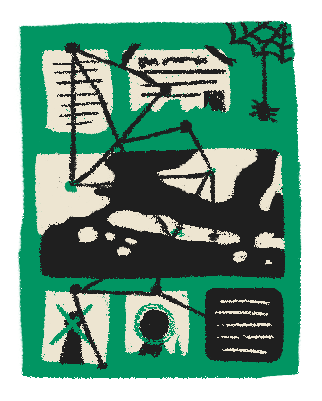
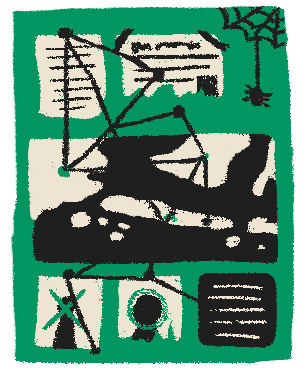
anger+fear kelar

diff --git a/pages/ruangan/fear.vue b/pages/ruangan/fear.vue
@@ -76,6 +76,15 @@
           <div class="cont lampu">
             <img src="/fear/lampu 1.png" alt="lampu">
           </div>
+          <div class="cont photoseries">
+            <img src="/fear/f-photoseries-1.png" alt="photoseries" @mouseenter="handleObjChange($event)" @mouseout="handleObjChangeEnd($event)">
+          </div>
+          <div class="cont kamera">
+            <img src="/fear/f-single-1.png" alt="kamera" @mouseenter="handleObjChange($event)" @mouseout="handleObjChangeEnd($event)">
+          </div>
+          <div class="cont radio">
+            <img src="/fear/f-radio-1.png" alt="radio" @mouseenter="handleObjChange($event)" @mouseout="handleObjChangeEnd($event)">
+          </div>
         </div>
       </div>
     </div>
@@ -153,6 +162,19 @@
           <div class="cont pipa-l">
             <img src="/fear/pipaHAPE 1.png" alt="pipa">
           </div>
+          <div class="cont artikel">
+            <img src="/fear/f-artikel-1.png" alt="artikel" @mouseenter="handleObjChange($event)" @mouseout="handleObjChangeEnd($event)">
+          </div>
+          <div class="cont photobook">
+            <img src="/fear/f-photobook-1.png" alt="photobook">
+          </div>
+          <div class="cont photobook1">
+            <img src="/fear/f-photobook-2.png" alt="photobook1" :style="`opacity: ${benda.ouija}`" @mouseenter="benda.ouija = 1" @mouseout="benda.ouija = 0">
+          </div>
+     
+          <!-- <div class="cont zine">
+            <img src="/fear/f-zine-1.png" alt="zine" @mouseenter="handleObjChange($event)" @mouseout="handleObjChangeEnd($event)">
+          </div> -->
         </div>
       </div>
     </div>
@@ -195,7 +217,8 @@
         benda: {
           saklar: false,
           sadako: 0,
-          setanmini: 0
+          setanmini: 0,
+          ouija: 0
         }
       }
     },
@@ -329,6 +352,16 @@
           e.target.setAttribute('src', "/fear/fokripi 1.png")
         } else if (e.target.getAttribute('src') === "/fear/monster1 1.png"){
           e.target.setAttribute('src', "/fear/monster2 1.png")
+        } else if (e.target.getAttribute('src') === "/fear/f-radio-1.png"){
+          e.target.setAttribute('src', "/fear/f-radio-2.png")
+        } else if (e.target.getAttribute('src') === "/fear/f-single-1.png"){
+          e.target.setAttribute('src', "/fear/f-single-2.png")
+        } else if (e.target.getAttribute('src') === "/fear/f-photoseries-1.png"){
+          e.target.setAttribute('src', "/fear/f-photoseries-2.png")
+        } else if (e.target.getAttribute('src') === "/fear/f-artikel-1.png"){
+          e.target.setAttribute('src', "/fear/f-artikel-2.png")
+        }  else if (e.target.getAttribute('src') === "/fear/f-zine-1.png"){
+          e.target.setAttribute('src', "/fear/f-zine-2.png")
         }
       },
       handleObjChangeEnd(e){
@@ -337,6 +370,16 @@
           e.target.setAttribute('src', "/fear/fohepi 1.png")
         } else if (e.target.getAttribute('src') === "/fear/monster2 1.png"){
           e.target.setAttribute('src', "/fear/monster1 1.png")
+        } else if (e.target.getAttribute('src') === "/fear/f-radio-2.png"){
+          e.target.setAttribute('src', "/fear/f-radio-1.png")
+        } else if (e.target.getAttribute('src') === "/fear/f-single-2.png"){
+          e.target.setAttribute('src', "/fear/f-single-1.png")
+        } else if (e.target.getAttribute('src') === "/fear/f-photoseries-2.png"){
+          e.target.setAttribute('src', "/fear/f-photoseries-1.png")
+        } else if (e.target.getAttribute('src') === "/fear/f-artikel-2.png"){
+          e.target.setAttribute('src', "/fear/f-artikel-1.png")
+        }  else if (e.target.getAttribute('src') === "/fear/f-zine-2.png"){
+          e.target.setAttribute('src', "/fear/f-zine-1.png")
         }
       },
       toggleSaklar(){
@@ -519,6 +562,21 @@
   top: 5.7%;
   left: 49%;
 }
+.photoseries{
+  width: 14%;
+  top: 12.7%;
+  left: 32%;
+}
+.kamera{
+  width: 10%;
+  top: 24.7%;
+  left: 53%;
+}
+.radio{
+  width: 16%;
+  top: 5%;
+  left: 69%;
+}
 
 .foto {
   width: 12.2%;
@@ -641,5 +699,25 @@
   width: 150%;
   height: 200%;
   top: -50%;
+}
+.artikel{
+  width: 7%;
+  top: 13.8%;
+  left: 38.2%;
+}
+.photobook{
+  width: 26%;
+  top: 76.8%;
+  left: 37.2%;
+}
+.photobook1{
+  width: 13%;
+  top: 53.8%;
+  left: 47.2%;
+}
+.zine{
+  width: 16%;
+  top: 36.8%;
+  left: 41.2%;
 }
 </style>

diff --git a/pages/ruangan/anger.vue b/pages/ruangan/anger.vue
@@ -80,11 +80,12 @@
             <img src="/anger/kgif.gif" alt="oven">
           </div>
           <div class="cont figura">
-            <img src="/anger/gep anger single photo-min.png" alt="figura">
+            <img src="/anger/a-single-1.png" alt="figura" @mouseenter="handleObjChange($event)" @mouseout="handleObjChangeEnd($event)">
           </div>
           <div class="cont koran">
-            <img src="/anger/gep anger article-min.png" alt="koran">
+            <img src="/anger/a-artikel-1.png" alt="koran" @mouseenter="handleObjChange($event)" @mouseout="handleObjChangeEnd($event)">
           </div>
+          
         </div>
       </div>
     </div>
@@ -142,10 +143,10 @@
             <img src="/anger/kran.gif" alt="kran">
           </div>
           <div class="cont gantungan">
-            <img src="/anger/gep anger photo series-min.png" alt="gantungan">
+            <img src="/anger/a-photo series-1.png" alt="gantungan" @mouseenter="handleObjChange($event)" @mouseout="handleObjChangeEnd($event)">
           </div>
           <div class="cont buku">
-            <img src="/anger/gep anger photobook-min.png" alt="buku">
+            <img src="/anger/a-photobook-1.png" alt="buku" @mouseenter="handleObjChange($event)" @mouseout="handleObjChangeEnd($event)">
           </div>
         </div>
       </div>
@@ -321,6 +322,14 @@
           e.target.setAttribute('src', "/anger/meong.png")
         } else if (e.target.getAttribute('src') === "/anger/tgif.gif"){
           e.target.setAttribute('src', "/anger/tv2.png")
+        } else if (e.target.getAttribute('src') === "/anger/a-artikel-1.png"){
+          e.target.setAttribute('src', "/anger/a-artikel-2.png")
+        } else if (e.target.getAttribute('src') === "/anger/a-single-1.png"){
+          e.target.setAttribute('src', "/anger/a-single-2.png")
+        } else if (e.target.getAttribute('src') === "/anger/a-photo series-1.png"){
+          e.target.setAttribute('src', "/anger/a-photo series-2.png")
+        } else if (e.target.getAttribute('src') === "/anger/a-photobook-1.png"){
+          e.target.setAttribute('src', "/anger/a-photobook-2.png")
         }
       },
       handleObjChangeEnd(e){
@@ -331,7 +340,15 @@
           e.target.setAttribute('src', "/anger/meong2.png")
         } else if (e.target.getAttribute('src') === "/anger/tv2.png"){
           e.target.setAttribute('src', "/anger/tgif.gif")
-        }
+        } else if (e.target.getAttribute('src') === "/anger/a-artikel-2.png"){
+          e.target.setAttribute('src', "/anger/a-artikel-1.png")
+        } else if (e.target.getAttribute('src') === "/anger/a-single-2.png"){
+          e.target.setAttribute('src', "/anger/a-single-1.png")
+        } else if (e.target.getAttribute('src') === "/anger/a-photo series-2.png"){
+          e.target.setAttribute('src', "/anger/a-photo series-1.png")
+        } else if (e.target.getAttribute('src') === "/anger/a-photobook-2.png"){
+          e.target.setAttribute('src', "/anger/a-photobook-1.png")
+        } 
       },
 
       },
@@ -528,13 +545,13 @@
   left: 54.5%;
 }
 .figura{
-  width: 16%;
-  top: 4%;
-  left: 54.5%; 
+  width: 8%;
+  top: 14%;
+  left: 55.5%; 
 }
 .koran{
-  width: 19.5%;
-  top: 75.5%;
+  width: 17.5%;
+  top: 76.5%;
   left: 43%;
 }
 // Add Objects positions here
@@ -584,9 +601,9 @@
   left: 22.5%;
 }
 .gantungan{
-  width: 17%;
-  top: 1.9%;
-  left: 49.5%;
+  width: 10.5%;
+  top: 9%;
+  left: 52.5%;
 }
 .buku{  
   width: 17%;
